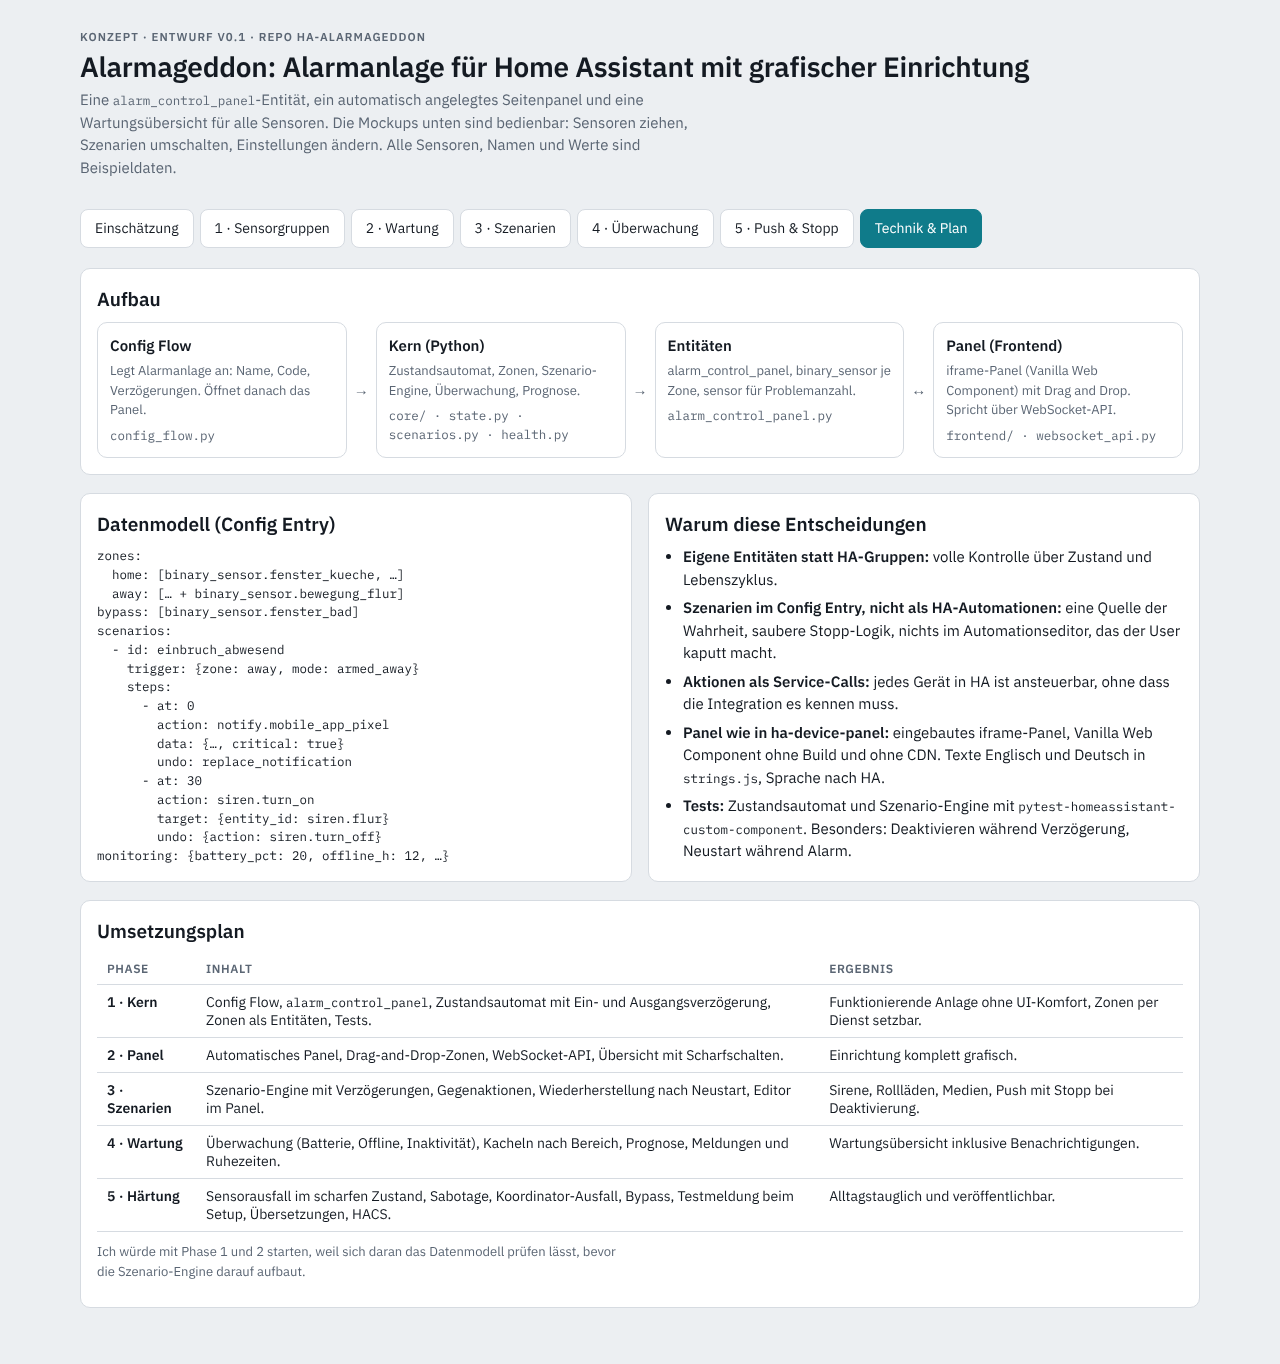
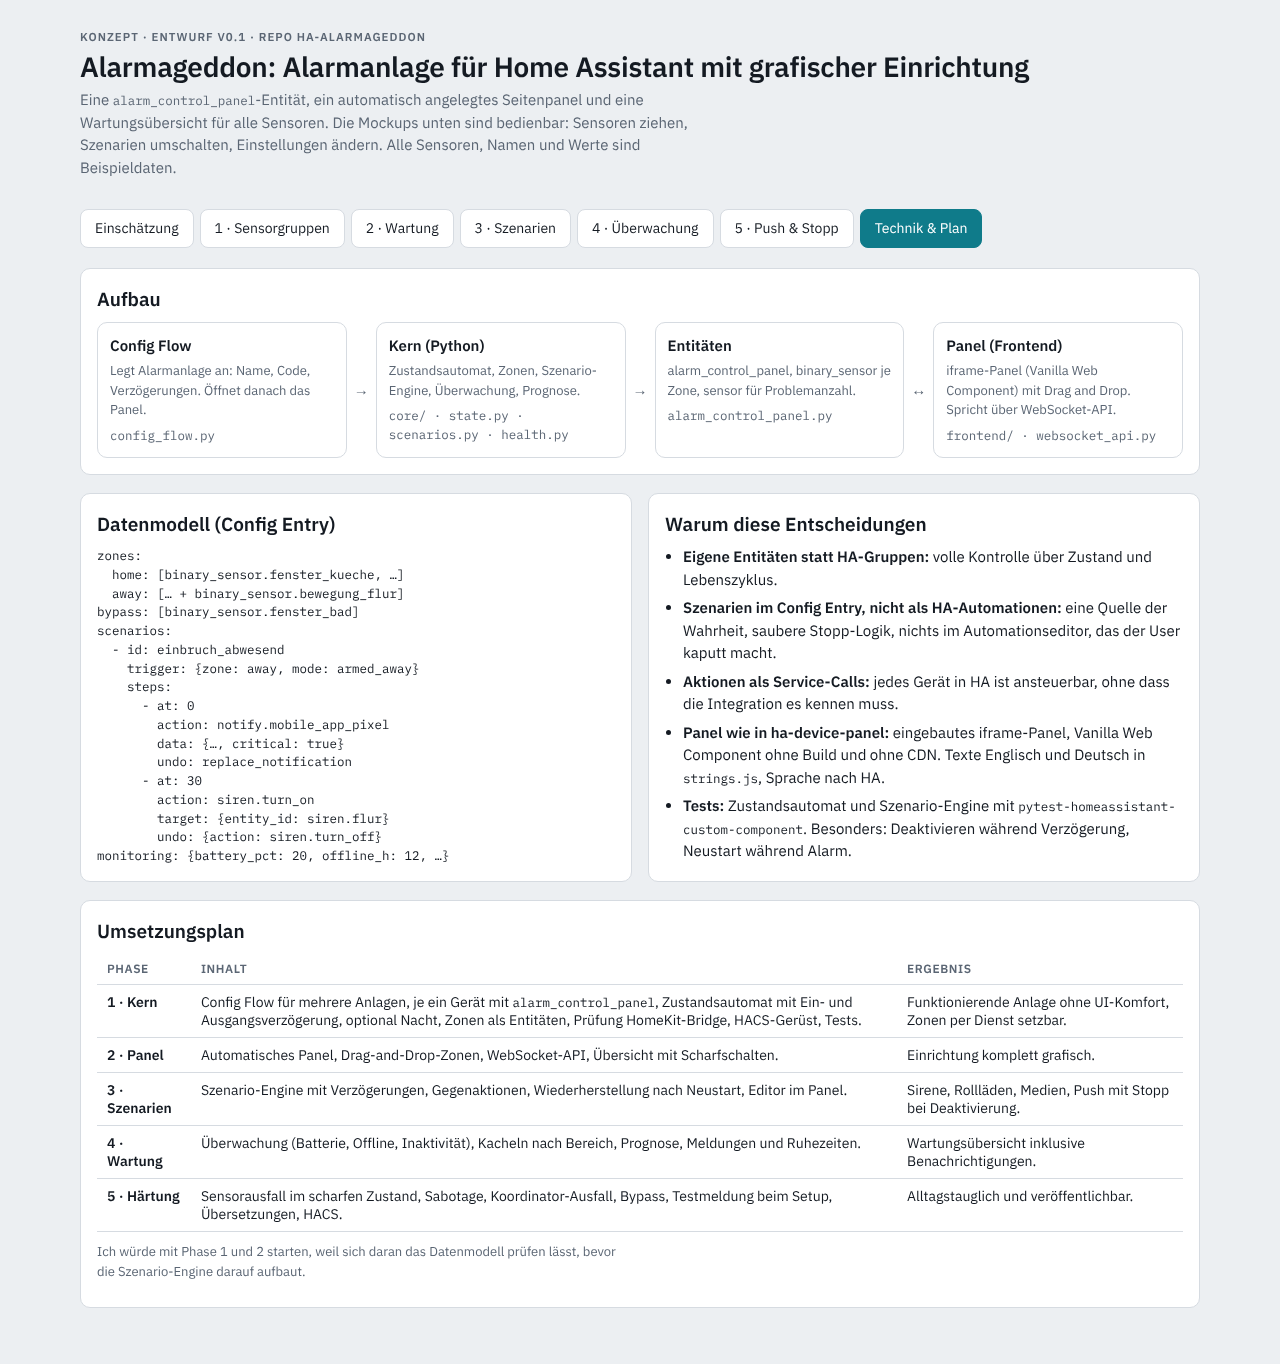
Vorgaben: Nacht optional, mehrere Anlagen, HomeKit zentral, HACS
- CLAUDE.md: feste Vorgaben und Abschnitt HACS
- CONCEPT.md, HANDOVER.md, README EN/DE und Mockups nachgeführt

Claude-Session: https://claude.ai/code/session_01ALFh3oBmarxTwCL7WBAtR3

Changed region(s): [[0.0938, 0.7082, 0.9062, 0.893]]

diff --git a/docs/mockups/konzept-v1/konzept.html b/docs/mockups/konzept-v1/konzept.html
@@ -244,10 +244,11 @@ th{font-size:12px;letter-spacing:.05em;text-transform:uppercase;color:var(--mute
     <div class="card">
       <h2>Offene Fragen an dich</h2>
       <ul class="clean">
-        <li>Sollen "Anwesend" und "Abwesend" die einzigen Modi sein, oder zusätzlich "Nacht"? Das Datenmodell könnte beliebig viele Modi unterstützen, die UI bliebe bei zwei festen Standardmodi.</li>
-        <li>Mehrere Alarmanlagen pro HA (zum Beispiel Haus und Garage)? Ich plane es als mehrere Config Entries ein, ein Panel zeigt dann alle.</li>
+        <li><s>Modus "Nacht"</s> Entschieden: optional, pro Alarmanlage zuschaltbar, standardmässig aus.</li>
+        <li><s>Mehrere Alarmanlagen</s> Entschieden: ja. Ein Config Entry pro Anlage, je ein Gerät mit eigener <span class="mono">alarm_control_panel</span>-Entität. Ein Panel zeigt alle.</li>
+        <li><s>HomeKit</s> Entschieden: zentral. Jede Anlage muss über die HomeKit-Bridge in Apple Home steuerbar sein.</li>
         <li><s>Sprache</s> Entschieden: Integration Englisch, Deutsch wenn HA auf Deutsch läuft. README und Release Notes zweisprachig, Mockups Deutsch.</li>
-        <li>Lizenz und Zielgruppe: nur privat, oder später HACS-Veröffentlichung? Das beeinflusst Doku und Tests.</li>
+        <li><s>HACS</s> Entschieden: Veröffentlichung über HACS, mit allen Regeln von HACS und hassfest.</li>
         <li>Welche Geräte nutzt du real (Zigbee2MQTT, ZHA, Z-Wave)? Das bestimmt, welche Attribute für Batterie und "zuletzt gesehen" bereitstehen.</li>
       </ul>
     </div>
@@ -469,7 +470,7 @@ monitoring: {battery_pct: 20, offline_h: 12, …}</pre>
       <h2>Umsetzungsplan</h2>
       <div class="scroll"><table>
         <tr><th>Phase</th><th>Inhalt</th><th>Ergebnis</th></tr>
-        <tr><td><b>1 · Kern</b></td><td>Config Flow, <span class="mono">alarm_control_panel</span>, Zustandsautomat mit Ein- und Ausgangsverzögerung, Zonen als Entitäten, Tests.</td><td>Funktionierende Anlage ohne UI-Komfort, Zonen per Dienst setzbar.</td></tr>
+        <tr><td><b>1 · Kern</b></td><td>Config Flow für mehrere Anlagen, je ein Gerät mit <span class="mono">alarm_control_panel</span>, Zustandsautomat mit Ein- und Ausgangsverzögerung, optional Nacht, Zonen als Entitäten, Prüfung HomeKit-Bridge, HACS-Gerüst, Tests.</td><td>Funktionierende Anlage ohne UI-Komfort, Zonen per Dienst setzbar.</td></tr>
         <tr><td><b>2 · Panel</b></td><td>Automatisches Panel, Drag-and-Drop-Zonen, WebSocket-API, Übersicht mit Scharfschalten.</td><td>Einrichtung komplett grafisch.</td></tr>
         <tr><td><b>3 · Szenarien</b></td><td>Szenario-Engine mit Verzögerungen, Gegenaktionen, Wiederherstellung nach Neustart, Editor im Panel.</td><td>Sirene, Rollläden, Medien, Push mit Stopp bei Deaktivierung.</td></tr>
         <tr><td><b>4 · Wartung</b></td><td>Überwachung (Batterie, Offline, Inaktivität), Kacheln nach Bereich, Prognose, Meldungen und Ruhezeiten.</td><td>Wartungsübersicht inklusive Benachrichtigungen.</td></tr>

diff --git a/docs/CONCEPT.md b/docs/CONCEPT.md
@@ -11,7 +11,7 @@ eingerichtet in einem automatisch angelegten Seitenpanel.
 ## Bausteine
 
 1. **Sensorgruppen:** zwei feste Zonen "Anwesend" (`armed_home`) und
-   "Abwesend" (`armed_away`). Sensoren per Drag and Drop oder Antippen; ein
+   "Abwesend" (`armed_away`), optional "Nacht" (`armed_night`). Sensoren per Drag and Drop oder Antippen; ein
    Sensor darf in beiden Zonen liegen. Schnellwahl "alle Fenster" usw.
 2. **Wartung:** Kacheln nach Bereich mit Batterie, Verlauf, Prognose der
    Restlaufzeit, letzter Aktivität, "zuletzt gesehen". Geräte mit Hinweis
@@ -48,16 +48,22 @@ eingerichtet in einem automatisch angelegten Seitenpanel.
 - Kritische Meldungen brauchen die Companion-App mit erteilten Rechten;
   Testmeldung beim Einrichten.
 
-## Entschieden
+## Entschieden (Nutzer, 2026-11-08)
 
+- Modus "Nacht" optional, pro Alarmanlage zuschaltbar, standardmässig aus.
+- Mehrere Alarmanlagen pro HA: ein Config Entry pro Anlage, je ein Gerät mit
+  eigener `alarm_control_panel`-Entität.
+- Apple HomeKit ist zentral: jede Anlage muss über die HomeKit-Bridge
+  steuerbar sein. Zu prüfen in Phase 1 im HA-Quellcode und mit Tests: welche
+  Zustände und Funktionen die Bridge abbildet (Anwesend, Abwesend, Nacht,
+  Aus, ausgelöst), wie sie mit Verzögerungen (`arming`, `pending`) umgeht und
+  wie ein Alarmcode in HomeKit hinterlegt wird.
+- Veröffentlichung über HACS, mit allen Regeln (siehe CLAUDE.md, "HACS").
 - Sprache: Integration Englisch, Deutsch wenn HA auf Deutsch läuft. README
   und Release Notes zweisprachig, Mockups Deutsch (Nutzer, 2026-11-08).
 
 ## Offene Fragen
 
-- Nur "Anwesend" und "Abwesend", oder zusätzlich "Nacht"?
-- Mehrere Alarmanlagen pro HA (zum Beispiel Haus und Garage)?
-- Veröffentlichung über HACS geplant?
 - Welche Funktechnik (Zigbee2MQTT, ZHA, Z-Wave)?
 - Ebenen der Einstellungen (Vorschlag: global › Alarmanlage › Bereich ›
   Gerät).
@@ -66,7 +72,7 @@ eingerichtet in einem automatisch angelegten Seitenpanel.
 
 | Phase | Inhalt |
 | --- | --- |
-| 1 · Kern | Config Flow, `alarm_control_panel`, Zustandsautomat mit Ein- und Ausgangsverzögerung, Zonen als Entitäten, Tests |
+| 1 · Kern | Config Flow (mehrere Anlagen), Gerät und `alarm_control_panel` pro Anlage, Zustandsautomat mit Ein- und Ausgangsverzögerung, optional Nacht, Zonen als Entitäten, Prüfung HomeKit-Bridge, HACS-Gerüst (Actions, hacs.json, Brand), Tests |
 | 2 · Panel | Automatisches Panel, Drag-and-Drop-Zonen, WebSocket-API, Übersicht |
 | 3 · Szenarien | Szenario-Engine mit Verzögerungen, Gegenaktionen, Wiederherstellung nach Neustart, Editor |
 | 4 · Wartung | Überwachung, Kacheln nach Bereich, Prognose, Meldungen und Ruhezeiten |

diff --git a/CLAUDE.md b/CLAUDE.md
@@ -20,6 +20,21 @@ der Sensoren nach Bereich (Batterie, letzte Aktivität, Prognose) und
 Überwachung nach dem Vorbild von Device Panel. Konzept: `docs/CONCEPT.md`,
 Mockups: `docs/mockups/konzept-v1/`.
 
+Feste Vorgaben des Nutzers (2026-11-08):
+
+- **Mehrere Alarmanlagen pro HA:** ein Config Entry pro Alarmanlage, jede mit
+  eigenem Gerät und eigener `alarm_control_panel`-Entität. Kein
+  `single_config_entry`.
+- **Apple HomeKit ist zentral:** Jede Alarmanlage muss sich über die
+  HomeKit-Bridge von HA übergeben und dort steuern lassen. Zustände,
+  unterstützte Funktionen und Code-Verhalten so wählen, dass HomeKit sie
+  abbildet; Verhalten im HA-Quellcode (`homeassistant/components/homekit`)
+  prüfen und mit Tests absichern, nicht annehmen.
+- **Modus "Nacht" optional:** pro Alarmanlage zuschaltbar (`armed_night`),
+  standardmässig aus. "Anwesend" und "Abwesend" sind immer da.
+- **Veröffentlichung über HACS:** alle Regeln von HACS und hassfest
+  einhalten (siehe "HACS").
+
 ## Sprache (Vorgabe des Nutzers, wörtlich)
 
 > Die Integration soll grundsätzlich English sein, erkennt aber zusätzlich
@@ -87,6 +102,25 @@ Umsetzung:
   global › Alarmanlage › Bereich › Gerät (Wirksam: Gerät > Bereich >
   Alarmanlage > global). Vor der ersten solchen Einstellung mit dem Nutzer
   festlegen.
+
+## HACS
+
+- Öffentliches Repository, genau eine Integration unter
+  `custom_components/alarmageddon/`.
+- `hacs.json` im Root mit `name`, `render_readme`, ehrlicher Mindestversion
+  `homeassistant`.
+- `manifest.json` mit `domain`, `name`, `version`, `documentation`,
+  `issue_tracker`, `codeowners`, `config_flow`, `iot_class`,
+  `integration_type`, `requirements`, `dependencies`/`after_dependencies`
+  für jede importierte Integration.
+- Brand-Bilder lokal unter `custom_components/alarmageddon/brand/`
+  (`icon.png` 256 × 256, `icon@2x.png`, `logo.png`, `logo@2x.png`, Test
+  der Masse), optional PR an home-assistant/brands.
+- GitHub: Beschreibung und Topics (`home-assistant`, `hacs`, `integration`,
+  `home-assistant-custom`), Issues aktiviert.
+- Actions `validate.yml` (HACS-Action und hassfest) und `tests.yml` müssen
+  grün sein; Actions mit fester Commit-Version.
+- Releases als GitHub-Release mit Tag (siehe "Git und Releases").
 
 ## Design-Regeln
 

diff --git a/README.de.md b/README.de.md
@@ -8,7 +8,9 @@ Alarmanlage für Home Assistant mit geführter grafischer Einrichtung und eingeb
 
 ## Funktionen (geplant)
 
-- **Alarm-Entität:** ein `alarm_control_panel` mit den Modi "Anwesend" und "Abwesend", Ausgangs- und Eingangsverzögerung.
+- **Alarm-Entität:** ein `alarm_control_panel` mit den Modi "Anwesend" und "Abwesend", optional "Nacht", Ausgangs- und Eingangsverzögerung.
+- **Mehrere Alarmanlagen:** beliebig viele (zum Beispiel Haus und Garage). Jede ist ein eigenes Gerät mit eigener Entität.
+- **Apple HomeKit:** Jede Alarmanlage lässt sich über die HomeKit-Bridge von Home Assistant an Apple Home übergeben.
 - **Sensorgruppen per Drag and Drop:** Ein Seitenpanel wird automatisch angelegt. Fenster-, Tür- und Bewegungssensoren werden in die Zonen "Anwesend" und "Abwesend" gezogen.
 - **Alarmszenarien:** eine Zeitachse von Aktionen pro Zone und Modus, zum Beispiel Sirene, Rollläden, Medienplayer wie Sonos, Licht und kritische Push-Meldungen mit Aktionen.
 - **Stopp beim Deaktivieren:** Deaktivieren bricht ausstehende Schritte ab und stoppt alles, was ein Szenario gestartet hat.

diff --git a/README.md b/README.md
@@ -8,7 +8,9 @@ Alarm system for Home Assistant with a guided graphical setup and built-in senso
 
 ## Features (planned)
 
-- **Alarm entity:** an `alarm_control_panel` with the modes "Home" and "Away", exit and entry delay.
+- **Alarm entity:** an `alarm_control_panel` with the modes "Home" and "Away", optionally "Night", exit and entry delay.
+- **Several alarm systems:** add as many as you need (for example house and garage). Each one is its own device and entity.
+- **Apple HomeKit:** every alarm system can be passed to Apple Home through the HomeKit Bridge of Home Assistant.
 - **Sensor groups by drag and drop:** a side panel is added automatically. Drag window, door and motion sensors into the zones "Home" and "Away".
 - **Alarm scenarios:** a timeline of actions per zone and mode, for example siren, covers, media players such as Sonos, lights and critical push notifications with actions.
 - **Stop on disarm:** disarming cancels pending steps and stops everything a scenario started.

diff --git a/docs/HANDOVER.md b/docs/HANDOVER.md
@@ -18,8 +18,10 @@ Einstieg für jede neue Claude-Code-Session. Zuerst diese Datei lesen, dann
 ## Nächste Schritte
 
 1. Offene Fragen aus `docs/CONCEPT.md` mit dem Nutzer klären.
-2. Phase 1: Kern (Config Flow, `alarm_control_panel`, Zustandsautomat mit
-   Verzögerungen, Zonen als Entitäten, Tests), Version 0.1.0.
+2. Phase 1: Kern (Config Flow für mehrere Anlagen, je ein Gerät mit
+   `alarm_control_panel`, Zustandsautomat mit Verzögerungen, optional
+   Nacht, Zonen als Entitäten, Prüfung HomeKit-Bridge, HACS-Gerüst, Tests),
+   Version 0.1.0.
 3. Phase 2: Panel mit Drag and Drop. Vorher Mockups pro Ansicht im Design
    von ha-device-panel (Varianten mit Empfehlung).
 
